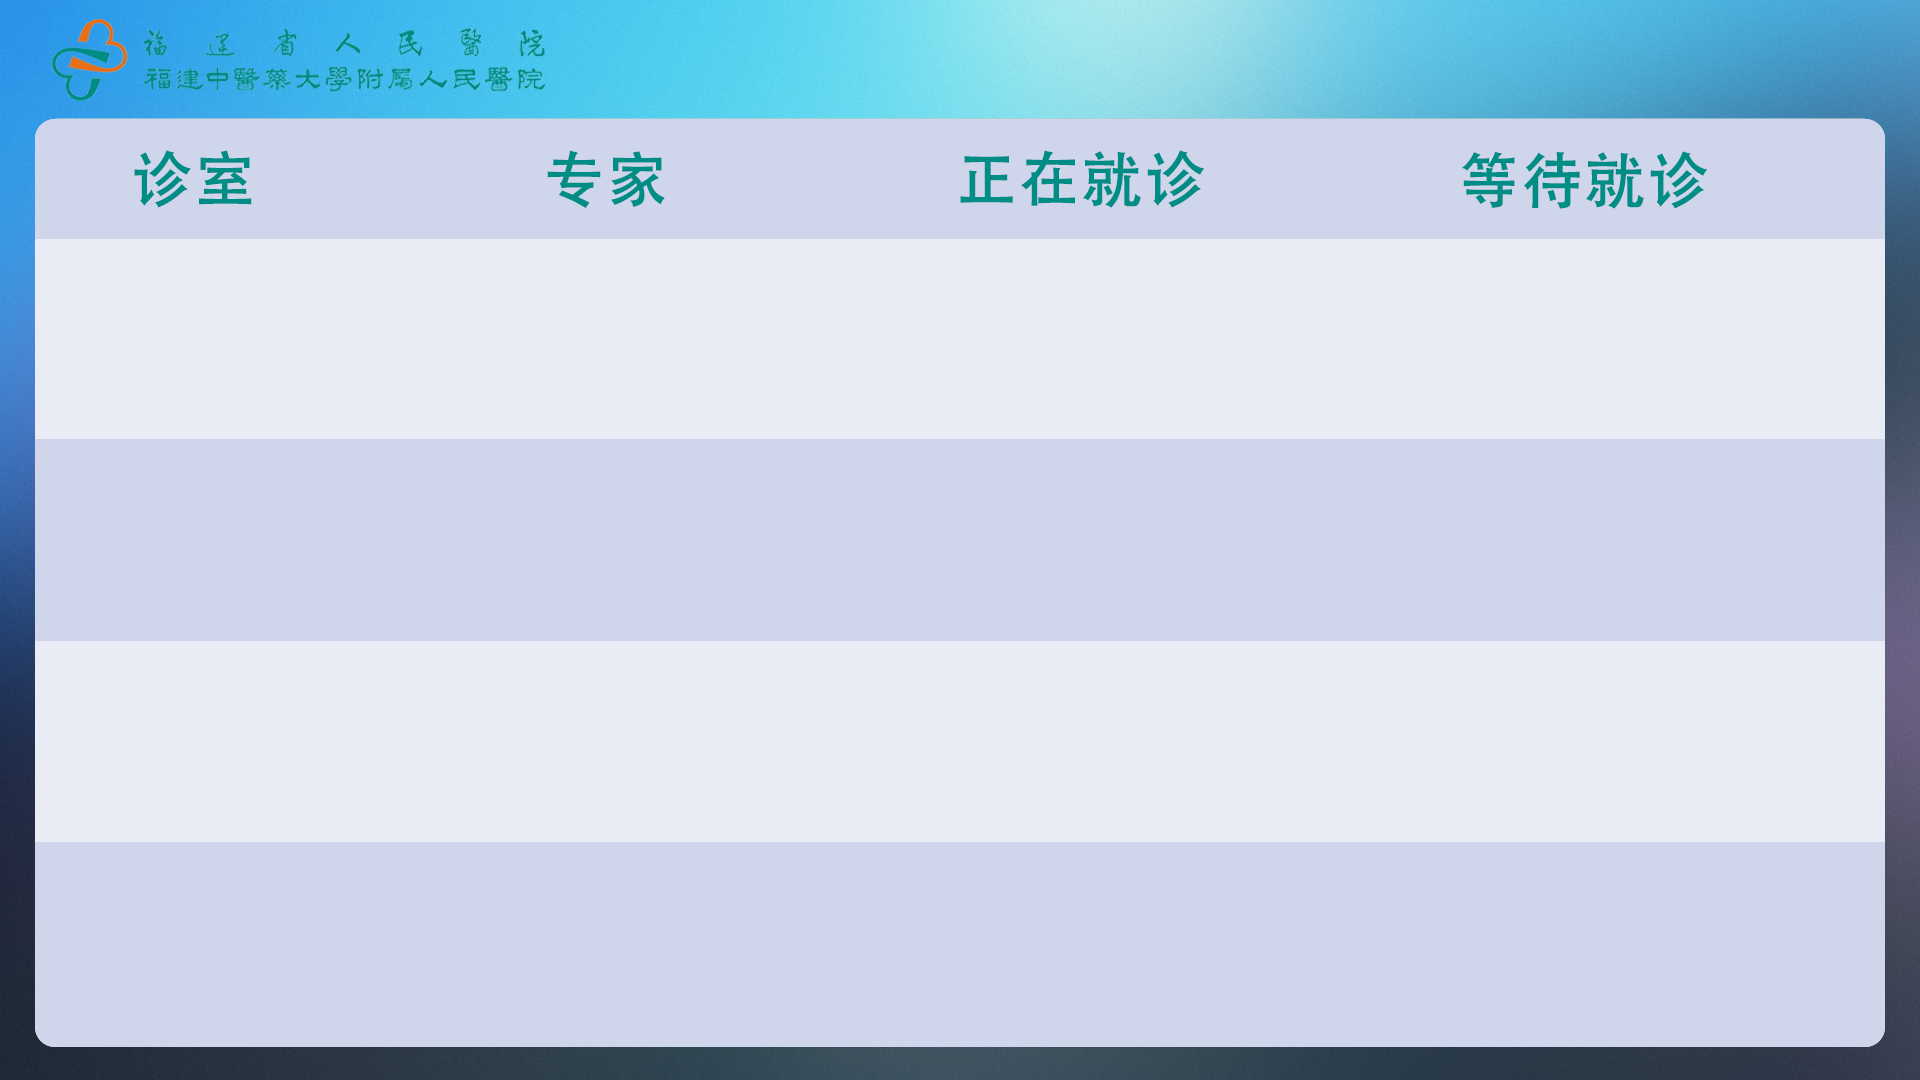
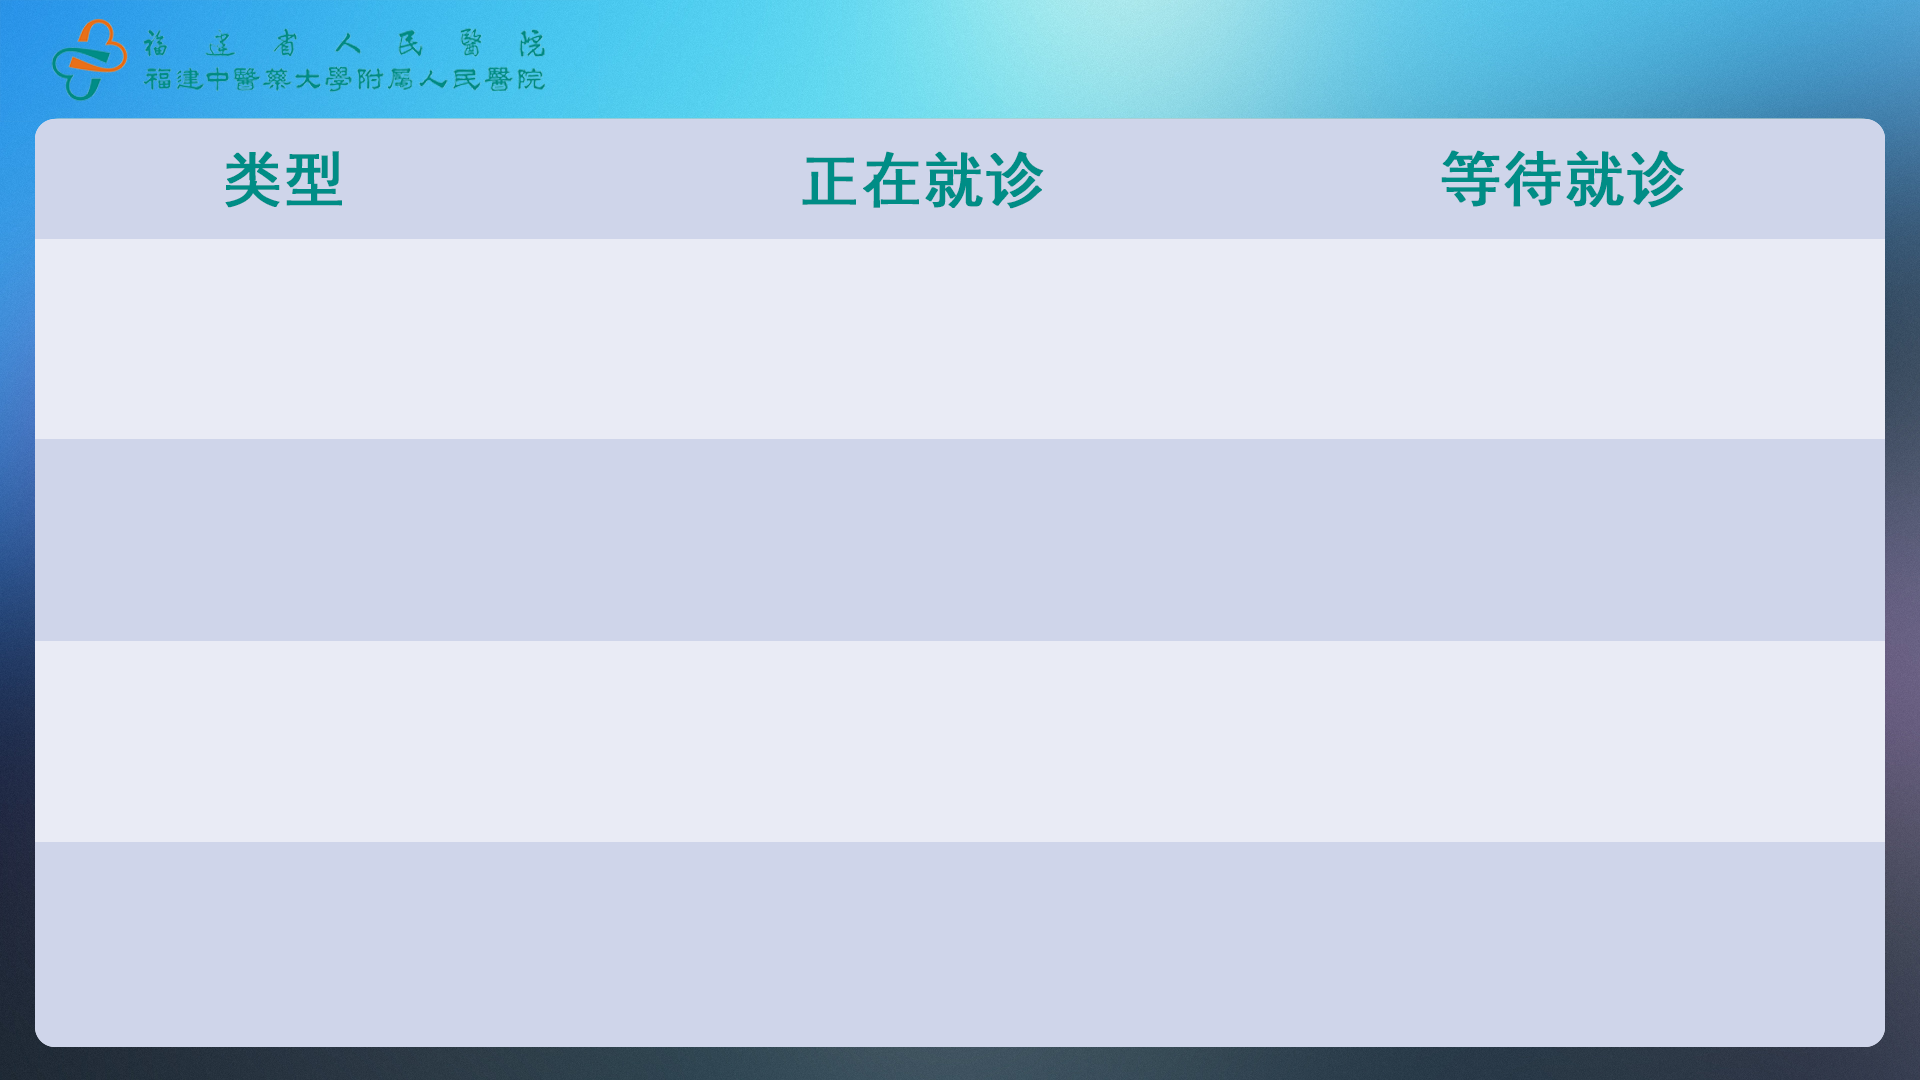
1.0

diff --git a/pages/clinic/anaesthesia.vue b/pages/clinic/anaesthesia.vue
@@ -1,46 +1,30 @@
 <template>
-	<view>
-		<view class="content"  @longpress="open" @click="open">
-			<image class="bg" src="/static/nosethroat.png" ></image>
-			<view class="header">
-				<view class="header-time">
-					<view class="pr-15">
-						<text>{{ dateText.year }}年{{ dateText.month }}月{{ dateText.date }}日</text>
-					</view>
-					<view >
-						<text>{{dateText.day}} {{ dateText.time }}</text>
-					</view>
+	<view class="content"  @longpress="open" @click="open">
+		<image class="bg" src="/static/clinic.png" ></image>
+		<view class="header">
+			<view class="header-title">{{title}}</view>
+			<view class="header-time">
+				<view>
+					<text>{{ dateText.year }}年{{ dateText.month }}月{{ dateText.date }}日</text>
+				</view>
+				<view>
+					<text class="pr-15">{{ dateText.day }}</text>
+					<text>{{ dateText.time }}</text>
 				</view>
 			</view>
-			<view class="data">
-				<view class="data-item" v-for="(item,index) in data" :key="index">
-					<view class="title">
-						{{item.cliniqueName}}
-					</view>
-					<view class="data-details">
-						<view class="seeing">
-							<view class="details-title">
-								正在就诊：
-							</view>
-							<view class="details-content">
-								<text class="pr-30">{{item.callingSeq}}</text>
-								<text>{{item.calling}}</text>
-							</view>
-						</view>
-						<view class="waiting">
-							<view class="details-title">
-								等待就诊：
-							</view>
-							<view class="details-content">
-								<text class="pr-30">{{item.waitingSeq}}</text>
-								<text>{{item.waiting}}</text>
-							</view>
-						</view>
-					</view>
+		</view>
+		<view class="info">
+			<view class="info-patient" v-for="(item,index) in data" :key="index">
+				<view class="room">{{item.cliniqueName}}</view>
+				<!-- <view class="doctor">{{item.doctor}}</view> -->
+				<view class="seeing" style="color: #ffa500; padding-left: 100px;">
+					<text class="pr-15" v-show="item.callingSeq">{{item.callingSeq}}号</text>
+					<text class="pl-15">{{item.calling}}</text>
 				</view>
-			</view>
-			<view class="footer">
-				感谢您的耐心等候！
+				<view class="seeing" style="padding-left: 60px;">
+					<text class="pr-15" v-show="item.waitingSeq">{{item.waitingSeq}}号</text>
+					<!-- <text class="pl-15">{{item.waiting}}</text> -->
+				</view>
 			</view>
 		</view>
 		<popupSet ref="popupSet" @confirm="confirm" iTypeText="诊室" @close="close" :dataInit="dataPopup"></popupSet>
@@ -48,12 +32,13 @@
 </template>
 
 <script>
-	import popupSet from '../../components/popup-set/popup-set.vue';
-	export default {
+import popupSet from '../../components/popup-set/popup-set.vue';
+export default {
 		components: { popupSet },
 		data() {
 			return {
 				iType:'',
+				title:'',
 				screenNumber:'',
 				popupShow:false,
 				dateText: {
@@ -90,32 +75,32 @@
 			// 关闭设置
 			close(){
 				this.popupShow = false;
-				
 			},
 			//确定设置
 			confirm(res) {
 				this.iType = res.iType;
 				this.screenNumber = res.screenNumber;
 				this.popupShow = false;
-				
 			},
 			init(){
 				
 				// let res = {data:{"reload":"false",
 				// "audioList":[{"deptCode": null,"deptName": null,"cliniqueName": "电子喉镜","cliniqueCode": "1","techTitle": null,"doctor": null,"doctorPic": null,"introduction": null,"calling": null,"callingSeq": null,"callingPreTime": null,"waiting": null,"waitingSeq": null,"waitingPreTime": null,"amPm": null,"status": null,"isReCall": null},{"deptCode": "2199","deptName": "耳鼻喉科","cliniqueName": "中医治疗","cliniqueCode": "747","techTitle": null,"doctor": null,"doctorPic": null,"introduction": null,"calling": "唐凤珍","callingSeq": "2014","callingPreTime": "2021-02-01 16:19:40","waiting": "李嘉妮","waitingSeq": "2015","waitingPreTime": null,"amPm": "下午","status": null,"isReCall": "3"},{"deptCode": "2199","deptName": "耳鼻喉科","cliniqueName": "耳内镜、鼻内镜","cliniqueCode": "6","techTitle": null,"doctor": null,"doctorPic": null,"introduction": null,"calling": "林洪燕","callingSeq": "4020","callingPreTime": "2021-02-01 15:57:02","waiting": "林洪燕","waitingSeq": "4020","waitingPreTime": null,"amPm": "下午","status": null,"isReCall": "1"}],
 				// "Data":[
-				// {"isReCall":0,"deptCode":"2199","deptName":"耳鼻喉科","cliniqueName":"内镜一","cliniqueCode":"5","techTitle":null,"doctor":null,"doctorPic":null,"introduction":null,"calling":"eee","callingSeq":"1001","callingPreTime":"2021-01-15 12:37:52","waiting":"eee","waitingSeq":"1001","waitingPreTime":"2021-01-15 12:37:52","amPm":'下午',"status":null},
-				// {"isReCall":0,"deptCode":"2199","deptName":"耳鼻喉科","cliniqueName":"纤维鼻咽喉镜室","cliniqueCode":"1","techTitle":null,"doctor":null,"doctorPic":null,"introduction":null,"calling":"tt","callingSeq":"1001","callingPreTime":"2021-01-15 12:37:42","waiting":"tt","waitingSeq":"1001","waitingPreTime":"2021-01-15 12:37:42","amPm":'下午',"status":null}
+				// {"isReCall":0,"deptCode":"2199","deptName":"耳鼻喉科","cliniqueName":"内镜一","cliniqueCode":"5","techTitle":null,"doctor":"吴先杰","doctorPic":null,"introduction":null,"calling":"eee","callingSeq":"1001","callingPreTime":"2021-01-15 12:37:52","waiting":"eee","waitingSeq":"1001","waitingPreTime":"2021-01-15 12:37:52","amPm":'下午',"status":null},
+				// {"isReCall":0,"deptCode":"2199","deptName":"耳鼻喉科","cliniqueName":"纤维鼻咽喉镜室","cliniqueCode":"1","techTitle":null,"doctor":"我先杰","doctorPic":null,"introduction":null,"calling":"tt","callingSeq":"1001","callingPreTime":"2021-01-15 12:37:42","waiting":"tt","waitingSeq":"1001","waitingPreTime":"2021-01-15 12:37:42","amPm":'下午',"status":null}
 				// ],
 				// "ServerTime":"2021-01-15 13:00:07"},
 				// }
-				// // res.data.audioList[0].isReCall = this.testNumber++;
+				
+				// res.data.audioList[0].isReCall = this.testNumber++;
 				// if(this.testNumber++ > 1){
 				// 	console.log("测试");
 				// 	res.data.audioList = [{"deptCode": null,"deptName": null,"cliniqueName": "电子喉镜","cliniqueCode": "1","techTitle": null,"doctor": null,"doctorPic": null,"introduction": null,"calling": null,"callingSeq": null,"callingPreTime": null,"waiting": null,"waitingSeq": null,"waitingPreTime": null,"amPm": null,"status": null,"isReCall": null},{"deptCode": "2199","deptName": "耳鼻喉科","cliniqueName": "中医治疗","cliniqueCode": "747","techTitle": null,"doctor": null,"doctorPic": null,"introduction": null,"calling": "唐凤珍","callingSeq": "2014","callingPreTime": "2021-02-01 16:21:33","waiting": "李嘉妮","waitingSeq": "2015","waitingPreTime": null,"amPm": "下午","status": null,"isReCall": "4"},{"deptCode": "2199","deptName": "耳鼻喉科","cliniqueName": "耳内镜、鼻内镜","cliniqueCode": "6","techTitle": null,"doctor": null,"doctorPic": null,"introduction": null,"calling": "林洪燕","callingSeq": "4020","callingPreTime": "2021-02-01 15:57:02","waiting": "林洪燕","waitingSeq": "4020","waitingPreTime": null,"amPm": "下午","status": null,"isReCall": "1"}]
 				// }; 
 				
-				//测试----------------------------------------------------------------------------------------------------------------------------------------
+				// 测试----------------------------------------------------------------------------------------------------------------------------------------
+				
 				
 				uni.request({	
 					url: 'http://129.1.20.21:8019/Queue/getNosethroat',
@@ -144,6 +129,7 @@
 									callingSeq: item.callingSeq || '',
 									waiting: waiting,
 									waitingSeq: item.waitingSeq || '',
+									doctor: item.doctor || '',
 								});
 								
 							})
@@ -221,7 +207,6 @@
 			// 语音队列
 			voiceQueue(){
 				let text = this.voiceData[0]; 
-				console.log(text);
 				this.$tui.webView.postMessage({
 					data: {
 						text:text
@@ -256,68 +241,132 @@
 				
 			},
 		}
-	}
+	
+};
 </script>
 
-<style lang="scss">
-.content{
-	width: 768px;
-	height: 1366px;
+<style>
+.pr-15{
+	padding-right: 15px;
 }
-.pr-30{
-	padding-right: 30px;
+.pl-15{
+	padding-left: 15px;
 }
-.footer{
-	font-size: 22px;
-	padding: 10px 60px;
-	font-weight: bold;
+page {
+	height: 100%;
 }
-.data{
-	height: 1172px;
-	.data-item{
-		height: 586px;
-		.title{
-			font-weight: bold;
-			font-size: 53px;
-			line-height: 90px;
-			padding-bottom: 10px;
-			text-align: center;
-		}
-		.data-details{
-			padding: 30px 60px;
-			color: #FFFFFF;
-			font-size: 52px;
-			.seeing{
-				padding-bottom: 30px;
-			}
-			.details-content{
-				line-height: 2;
-				text-align: center;
-			}
-		}
-		
-	}
+.uni-form-item.uni-form-btn{
+	padding: 0;
 }
-.bg {
-	width: 768px;
-	height: 1366px;
-	position: absolute;
-	z-index: -1;
+
+.chooseBtn{
+	font-size: 30px;
+	width: 438px;
 }
 .header{
 	display: flex;
 	justify-content: center;
 	align-items: center;
 	position: relative;
-	height: 145px;
-	.header-time {
-		position: absolute;
-		right: 45px;
-		padding-top: 15px;
-	}
-	.header-time view {
-		font-size: 30px;
-		color: #000;
-	}
+	height: 118px;
 }
+.room{
+	width: 490px;
+}
+.doctor{
+	width: 420px;
+}
+.seeing{
+	width: 673px;
+	box-sizing: border-box;
+	
+}
+.content {
+	position: relative;
+	height: 100%;
+}
+
+.bg {
+	position: absolute;
+	height: 1080px;
+	width: 1920px;
+	z-index: -1;
+}
+.header-time {
+	display: flex;
+	position: absolute;
+	justify-content: center;
+	flex-direction: column;
+	right: 45px;
+	padding-top: 15px;
+	top: 0px;
+}
+.header-title{
+	color: rgb(253,250,7);
+	font-size: 63px;
+	font-weight: 800;
+	letter-spacing: 12px;
+}
+.header-time view {
+	font-size: 35px;
+	color: #000;
+	letter-spacing:5px;
+}
+.info{
+	padding-top: 121px;
+	padding-left: 35px;
+	padding-right: 35px;
+}
+.info-patient {
+	display: flex;
+	height: 200px;
+	justify-content: space-around;
+}
+.info-patient view {
+	font-size: 57px;
+	font-weight: bold;
+	color: #000;
+	display: flex;
+	align-items: center;
+	justify-content: center;
+	white-space: nowrap;
+	overflow: hidden;
+	text-overflow: ellipsis;
+}
+
+.popup-btn{
+		font-size: 30px;
+		color: #fff;
+		padding-left: 40px;
+		padding-right: 40px;
+		background-color: rgb(68,114,196);
+		margin-left: 40px;
+		margin-right: 40px;
+	}
+	.popup{
+		background-color: #fff;
+		width: 600px;
+		font-size: 40px;
+		z-index: 100;
+	}
+	.popup-header{
+		background-color: rgb(68,114,196);
+		text-align: center;
+		padding: 10px 0 ;
+	}
+	.uni-form-item{
+		display: flex;
+		align-items: center;
+		padding: 40px;
+		justify-content: center;
+	}
+	.popup-title{
+		font-size: 30px;
+	}
+	.uni-input{
+		font-size: 25px;
+		border: 1px solid;
+		padding: 20px 30px;
+	}
 </style>
+

diff --git a/pages/nosethroat/nosethroatOne.vue b/pages/nosethroat/nosethroatOne.vue
@@ -93,15 +93,11 @@
 			// 关闭设置
 			close(){
 				this.popupShow = false;
-				if (this.iType ) {
-					this.init();
-				}
 			},
 			//确定设置
 			confirm(res) {
 				this.playSound = res.playSound;
 				this.popupShow = false;
-				this.init();
 			},
 			init(){
 				// let res = {data:{"reload":"false",

diff --git a/App.vue b/App.vue
@@ -1,11 +1,7 @@
 <script>
 	export default {
 		onLaunch: function() {
-			this.$tui.webView.postMessage({
-				data: {
-					status: true
-				}
-			})
+		
 		},
 		onShow: function() {
 			console.log('App Show')
